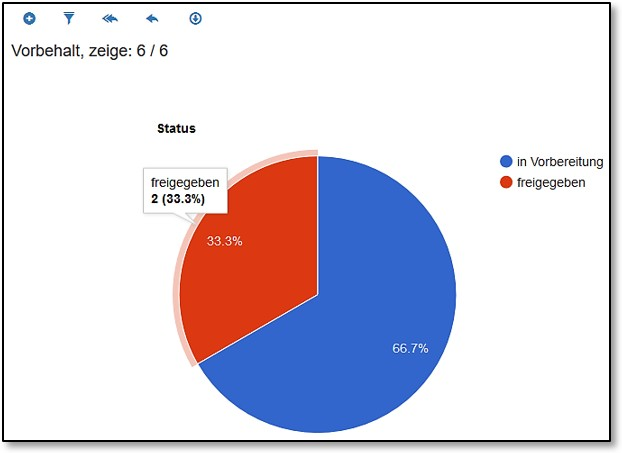
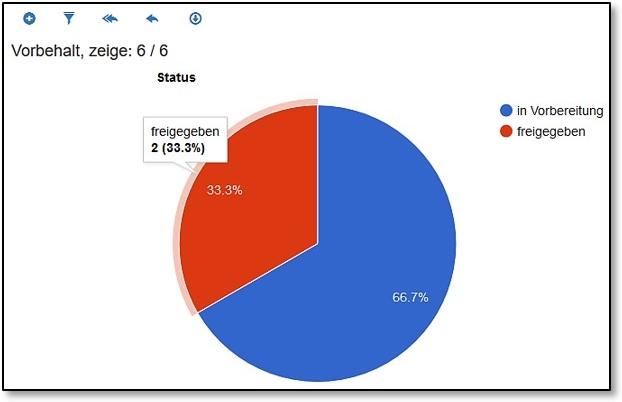
[german] SpezAnleitung
Anpassungen Spez Anleitung RBS ReproDruck

diff --git a/german/chapters/06_Anf-Maengelmanagement/06_Anf-Maengelmanagement.tex b/german/chapters/06_Anf-Maengelmanagement/06_Anf-Maengelmanagement.tex
@@ -121,13 +121,16 @@ Die Prozesse und Abläufe werden nachfolgend anhand der Status beschrieben, welc
 
 \vspace{\baselineskip}
 
+\begin{wrapfigure}[5]{r}{7cm}   % [x] Wie manche Zeile soll sich um die Grafik "brechen"
+  \vspace{-25pt}      % Grundwert war 20; mit 30 schön oben beim Text ausgerichtet
+  \begin{center}
+    \includegraphics[width=1\linewidth]{../chapters/06_Anf-Maengelmanagement/pictures/amm_grafStatus.jpg}
+  \end{center}
+  \vspace{-20pt}
+  % \caption{Das Anforderungs- und Mängelmanagement verwenden}
+  \vspace{-10pt}
+\end{wrapfigure}
 Eine Besonderheit des Anforderungs- und Mängelmanagements ist die grafische Weiterschaltung des Statussystems. Mit farbigen Buttons wird dem Benutzer immer der nächste Schritt oder die Rückgabe an vorhergehende Stelle angezeigt. Mit wenigen Klicks wird die Anforderung durch den Prozess geführt.
-
-\begin{figure}[H]
-\center{\includegraphics[width=.45\linewidth]{../chapters/06_Anf-Maengelmanagement/pictures/amm_grafStatus.jpg}}
-% \caption{Anforderung erstellen oder bearbeiten}
-% \label{fig:speciation}
-\end{figure}
 
 \subsection{Anforderungen erstellen und bearbeiten}
 \label{bkm:Ref2018071810}
@@ -144,7 +147,7 @@ Mit Klick auf das Plussymbol \includegraphics[height=12pt]{/Icons/Plussymbol.jpg
 
 \subsubsection{Bestehende Anforderung bearbeiten}
 
-Eine bestehende Anforderung wird wie folgt bearbeitet: In der Anforderungsübersicht die gewünschte Anforderung suchen und mit Klick auf die 'ID'-Nummer \col{(2)} öffnen sich weitere Optionen. Wählen Sie das Bearbeiten-Symbol (\includegraphics[height=12pt]{/Icons/bearbeiten.jpg}) \col{(3)}. Nun erscheinen die bisherigen Angaben in einer Maske. Die Maske zum Bearbeiten von Anforderungen beinhaltet einige Pflichtfelder, welche mit einem Stern (*) markiert sind. Diese müssen zwingend ausgefüllt oder ausgewählt werden, falls dies beim Erstellen noch nicht erfolgt ist. Für gewisse Felder ist eine Mehrfachauswahl möglich. Nach dem Erfassen der Anforderung müssen die Änderungen übernommen werden, damit sie in der Datenbank gespeichert werden. Die entsprechende blaue Schaltfläche 'Übernehmen' befindet sich unten in der Eingabemaske oder alternativ oben in der Mitte der Browserseite. Wollen Sie nach dem Speichern gleich zur Übersicht zurückkehren, klicken Sie auf \includegraphics[height=12pt]{/Icons/ueb_schliessen.png} oben in der Mitte des Bildschirms. \\
+Eine bestehende Anforderung wird wie folgt bearbeitet: In der Anforderungsübersicht die gewünschte Anforderung suchen und mit Klick auf die 'ID'-Nummer \col{(2)} öffnen sich weitere Optionen. Wählen Sie das Bearbeiten-Symbol (\includegraphics[height=12pt]{/Icons/bearbeiten.jpg}) \col{(3)}. Nun erscheinen die bisherigen Angaben in einer Maske. Die Maske zum Bearbeiten von Anforderungen beinhaltet einige Pflichtfelder, welche mit einem Stern (*) markiert sind. Diese müssen zwingend ausgefüllt oder ausgewählt werden, falls dies beim Erstellen noch nicht erfolgt ist. Für gewisse Felder ist eine Mehrfachauswahl möglich. Nach dem Erfassen der Anforderung müssen die Änderungen übernommen werden, damit sie in der Datenbank gespeichert werden. Die entsprechende blaue Schaltfläche 'Übernehmen' befindet sich unten in der Eingabemaske oder alternativ oben in der Mitte der Browserseite. Wollen Sie nach dem Speichern gleich zur Übersicht zurückkehren, klicken Sie auf \includegraphics[height=12pt]{/Icons/ueb_schliessen.png} oben in der Mitte des Bildschirms.
 
 \vspace{\baselineskip}
 
@@ -155,18 +158,19 @@ Eine bestehende Anforderung wird wie folgt bearbeitet: In der Anforderungsübers
 
 \textbf{Bestehende Anforderung kopieren}
 
-- Wenn Status -Anforderung bearbeiten-
-
-
-% bishierherf
+Eine bestehende Anforderung kann unabhängig ihres Status kopiert werden. Dazu wird die zu kopierende Anforderung mit der Checkbox selektiert (\includegraphics[height=12pt]{/Icons/checkbox_markiert.jpg}). Klicken Sie danach oben in der Bildmitte auf das Kopiersymbol (\includegraphics[height=12pt]{/Icons/A_Kopieren.jpg}). Nun wird die Eingabemaske der Anforderung geöffnet. Sämtliche Felder sind bereits vorausgefüllt. Der Status der neuen Anforderung wird auf 'Anforderung bearbeiten' gesetzt.
 
 \vspace{\baselineskip}
 
+\textbf{Hinweis:} Eine Mehrfachauswahl für die Kopierfunktion ist nicht möglich.
 
+% bishierher
+
+\vspace{\baselineskip}
 
 \textbf{Mehrere Anforderungen bearbeiten}
 
-Um mehrere Anforderungen zu überarbeiten, können diese mit Häkchen (\includegraphics[height=12pt]{/Icons/checkbox_markiert.jpg}) ausgewählt werden. Danach ist es möglich mit der Schaltfläche 'Serienbearbeitung' (\includegraphics[height=12pt]{/Icons/A_Serienbearbeitung.jpg}) in der Menüleiste die einzelnen Anforderungen nacheinander zu bearbeiten und jeweils mit dem Button \includegraphics[height=12pt]{/Icons/speichern_weiter.jpg} \col{(2)} zur nächsten Anforderung zu springen ohne diese erneut auswählen zu müssen. Mit dem \includegraphics[height=12pt]{/Icons/Abbrechen_r.jpg}-Symbol \col{(1)} können Sie die Maske ohne die Daten zu speichern wieder verlassen. \\
+Um mehrere Anforderungen zu überarbeiten, können diese mit Häkchen (\includegraphics[height=12pt]{/Icons/checkbox_markiert.jpg}) ausgewählt werden. Danach ist es möglich mit der Schaltfläche 'Serienbearbeitung' (\includegraphics[height=12pt]{/Icons/A_Serienbearbeitung.jpg}) in der Menüleiste die einzelnen Anforderungen nacheinander zu bearbeiten und jeweils mit dem Button \includegraphics[height=12pt]{/Icons/speichern_weiter.jpg} \col{(2)} zur nächsten Anforderung zu springen ohne diese erneut auswählen zu müssen. Mit dem \includegraphics[height=12pt]{/Icons/Abbrechen_r.jpg}-Symbol \col{(1)} können Sie die Maske ohne die Daten zu speichern wieder verlassen.
 
 \begin{figure}[H]
 \center{\includegraphics[width=0.5\linewidth]{../chapters/06_Anf-Maengelmanagement/pictures/amm_mAnfBearbeiten.jpg}}
@@ -177,19 +181,35 @@ Um mehrere Anforderungen zu überarbeiten, können diese mit Häkchen (\includeg
 Nach dem Erstellen und während dem Bearbeiten kann jeder Anforderung ein Quelldokument angehängt werden. Dieses Dokument muss vorher in der Dokumentenablage erfasst worden sein (Siehe Kapitel \ref{bkm:Ref442863508}). 
 
 \subsubsection{Anforderungen gruppieren}
+\label{bkm:Ref2018121101}
 
-Der TPL Validierung hat die Möglichkeit für mehrere Anforderungen, welche z.B. thematisch oder organisatorisch zusammengehören, eine neue übergeordnete Anforderung zu erstellen. Diese Funktion steht nur für Anforderungen zur Verfügung, welche sich aktuell im Status 'Erfassung abgeschlossen' befinden. Sowohl die existierenden (Unter-)Anforderungen wie auch die neu erstellte übergeordnete Anforderung durchlaufen anschliessend den normalen Lebenszyklus gemäss Statuskonfiguration. Bevor die übergeordnete Anforderung in den abschliessenden Status 'Validierung abgeschlossen' verschoben werden kann, wird automatisch geprüft, ob die Validierung aller untergeordneten Anforderungen bereits abgeschlossen ist. Andernfalls erscheint eine Warnung. \\
+Der TPL Validierung hat die Möglichkeit für mehrere Anforderungen, welche z.B. thematisch oder organisatorisch zusammengehören, eine neue übergeordnete Anforderung zu erstellen. Diese Funktion steht nur für Anforderungen zur Verfügung, welche sich aktuell im Status 'Erfassung abgeschlossen' befinden. Sowohl die existierenden (Unter-)Anforderungen wie auch die neu erstellte übergeordnete Anforderung durchlaufen anschliessend den normalen Lebenszyklus gemäss Statuskonfiguration. Bevor die übergeordnete Anforderung in den abschliessenden Status 'Validierung abgeschlossen' verschoben werden kann, wird automatisch geprüft, ob die Validierung aller untergeordneten Anforderungen bereits abgeschlossen ist. Andernfalls erscheint eine Warnung:
+
+\begin{figure}[H]
+\center{\includegraphics[width=0.75\linewidth]{../chapters/06_Anf-Maengelmanagement/pictures/amm_Warnung.jpg}}
+\caption{Warnung: untergeordnete Anforderungen}
+% \label{fig:speciation}
+\end{figure}
 
 \textbf{Vorgehen:}
 Mehrere bestehende Anforderungen können in der Anforderungsübersicht ausgewählt werden (mittels Checkbox \includegraphics[height=12pt]{/Icons/checkbox_markiert.jpg}). Durch Klicken der Schaltfläche 'Gruppieren' \includegraphics[height=12pt]{/Icons/A_Gruppieren.jpg} wird die Eingabemaske zur Erstellung einer neuen Anforderung geöffnet, wobei die zuvor gewählten Anforderungen als untergeordnete Anforderungen ('Kinder') vorausgewählt werden. Ebenfalls werden Mehrfachauswahlfelder bereits ausgefüllt (Summe aller Auswahlen der 'Kinder') und ggf. Einfachauswahlfelder ausgefüllt (nur falls Auswahl bei den 'Kindern' identisch ist).
-Nach erfolgreichem Gruppieren können die hierarchischen Verknüpfungen der Anforderungen in einem Baum dargestellt werden. Nach Auswahl einer Anforderung erfolgt dies über die Baumschaltfläche (\includegraphics[height=12pt]{/Icons/A_Anforderungsbaum.jpg}) in der Titelleiste (Pro Markierung ( \includegraphics[height=12pt]{/Icons/checkbox_markiert.jpg}) erfolgt eine Darstellung).
+Nach erfolgreichem Gruppieren können die hierarchischen Verknüpfungen der Anforderungen in einem Baum dargestellt werden. Nach Auswahl einer Anforderung erfolgt dies über die Baumschaltfläche (\includegraphics[height=12pt]{/Icons/A_Anforderungsbaum.jpg}) in der Titelleiste (Pro Markierung (\includegraphics[height=12pt]{/Icons/checkbox_markiert.jpg}) erfolgt eine Darstellung).
+
+\begin{figure}[H]
+\center{\includegraphics[width=1\linewidth]{../chapters/06_Anf-Maengelmanagement/pictures/amm_AnfBaum1.jpg}}
+\caption{Zwei Anforderungsbäume}
+% \label{fig:speciation}
+\end{figure}
 
 \subsubsection{Anforderungen splitten}
 
-Die Anforderungsautoren haben die Möglichkeit, einzelne Anforderungen in mehrere An-forderungen aufzuteilen. Dabei wird bei jedem Splitting-Vorgang eine neue Anforderung erfasst, die der bereits existierenden Anforderung untergeordnet und standardmässig mit demselben Inhalt vorausgefüllt ist. Analog zum beschriebenen Verhalten beim Gruppieren von Anforderungen durchlaufen anschliessend alle existierenden und neuen Anforderungen den normalen Lebenszyklus. Für die übergeordneten Anforderungen wird ebenfalls (unabhängig davon, ob sie durch Gruppierung oder Splitting entstanden sind) vor dem Abschluss geprüft, ob alle untergeordneten Anforderungen abschliessend validiert sind. \\
+Die Anforderungsautoren haben die Möglichkeit, einzelne Anforderungen in mehrere An-forderungen aufzuteilen. Dabei wird bei jedem Splitting-Vorgang eine neue Anforderung erfasst, die der bereits existierenden Anforderung untergeordnet und standardmässig mit demselben Inhalt vorausgefüllt ist. Analog zum beschriebenen Verhalten beim Gruppieren von Anforderungen durchlaufen anschliessend alle existierenden und neuen Anforderungen den normalen Lebenszyklus. Für die übergeordneten Anforderungen wird ebenfalls (unabhängig davon, ob sie durch Gruppierung oder Splitting entstanden sind) vor dem Abschluss geprüft, ob alle untergeordneten Anforderungen abschliessend validiert sind (Siehe oben in Kapitel \ref{bkm:Ref2018121101}). \\
 
 \textbf{Vorgehen:}\\
-\textbf{Hinweis:} Das Splitten ist nur für Anforderungen im Status 'Anforderung bearbeiten' möglich.\\
+\textbf{Hinweis:} Das Splitten ist nur für Anforderungen im Status 'Anforderung bearbeiten' möglich.
+
+\vspace{\baselineskip}
+
 Durch Auswahl einer bestehenden Anforderung (mittels Checkbox \includegraphics[height=12pt]{/Icons/checkbox_markiert.jpg}) und Klicken der Schaltfläche 'Splitten'  (\includegraphics[height=12pt]{/Icons/A_Splitten.jpg}) wird die Eingabemaske zur Erstellung einer neuen Anforderung geöffnet, wobei die Inhalte der zuvor gewählten Anforderung eingefüllt werden sowie die zuvor gewählte Anforderung als übergeordnete Anforderung ('Elternteil') gesetzt wird. Nach dem Speichern der neuen Unteranforderung besteht die Möglichkeit, weitere 'Kind'-Anforderungen basierend auf demselben 'Elternteil' zu erfassen.
 Nach erfolgreichem Splitten können die hierarchischen Verknüpfungen der Anforderungen in einem Baum dargestellt werden. Nach Auswahl einer Anforderung (mittels Checkbox \includegraphics[height=12pt]{/Icons/checkbox_markiert.jpg}) erfolgt dies über die Baumschaltfläche in der Titelleiste (\includegraphics[height=12pt]{/Icons/A_Anforderungsbaum.jpg}).\\
 

diff --git a/german/y_SpezDokus/chapters/DocRepro.tex b/german/y_SpezDokus/chapters/DocRepro.tex
@@ -15,16 +15,16 @@ Suchen Sie mit den Filterfeldern und der Volltextsuche \col{(1)} nach den gewün
 Sobald Sie ein Dokument ausgewählt und damit in den Warenkorb gelegt haben, werden Ihnen oben im Browserfenster die möglichen Optionen angezeigt:
 
 \begin{figure}[H]
-\center{\includegraphics[width=1\linewidth]{../chapters/11_Dokumentenablage/pictures/docrepro_wkorb_wOptionen.jpg}}
+\center{\includegraphics[width=1\linewidth]{../chapters/11_Dokumentenablage/pictures/dkorb_wOptionen.jpg}}
 \caption{Optionen}
 % \label{fig:speciation}
 \end{figure}
 
-\textbf{Hinweis:} Die Anzahl an Optionen kann je nach Auswahl variieren. Wurde nur ein Dokument / Plan ausgewählt haben Sie mehr Optionen. Wurde mit einem Dokument auch ein Link ausgewählt, können Sie nur wenige Optionen anwählen.
+\textbf{Hinweis:} Die Anzahl an Optionen kann je nach Auswahl variieren. Wurde nur ein Dokument / Plan ausgewählt, haben Sie mehr Optionen. Wurde mit einem Dokument auch ein Link ausgewählt, können Sie nur wenige Optionen anwählen.
 
 \begin{wrapfigure}[11]{l}{2.8cm}
 \vspace{-15pt}
-\includegraphics[height=70mm]{../chapters/11_Dokumentenablage/pictures/11-dkorb_Auswahl.jpg}
+\includegraphics[height=70mm]{../y_SpezDokus/chapters/11_Dokumentenablage/pictures/11-dkorb_Auswahl.jpg}
 % \caption{Status ändern}
 \end{wrapfigure}
 Klicken Sie auf den Dokumentenkorb \includegraphics[height=12pt]{/Icons/dk_korb_b.jpg}, um weitere Optionen rund um die Dokumentenauswahl zu sehen. Die angezeigten Optionen sind abhängig von der Anzahl und der Art der ausgewählten Dokumenten oder Links:

diff --git a/german/y_SpezDokus/SpezDok_bu.tex b/german/y_SpezDokus/SpezDok_bu.tex
@@ -61,7 +61,7 @@
 
 \begin{figure}[t] % Example image
 \flushright  % rechtsbuendig
-\includegraphics[width=0.2\linewidth]{0_EmBeLogo}
+\includegraphics[width=0.2\linewidth]{1_RBSLogo} \quad \includegraphics[width=0.2\linewidth]{0_EmBeLogo}
 \end{figure}
 
 \vspace*{2cm}
@@ -73,7 +73,7 @@
 \HRule \\[1.5cm]
 
 \textsf{\Large Spezialanleitung}\\[0.5cm] % Major heading such as course name
-\textsf{\large Version 2.12 / 05.12.2018}\\[0.5cm] % Minor heading such as course title
+\textsf{\large Version 2.12 / 13.12.2018}\\[0.5cm] % Minor heading such as course title
 
 \vspace*{3cm}
 
@@ -89,7 +89,7 @@
 \begin{tabular}{lp{12cm}}
 Auftragsnummer & BE.N.\\
 Auftraggeber & .\\
-Datum & 05.12.2018\\
+Datum & 13.12.2018\\
 Version & 2.12\\
 Autor & Benjamin Nyffenegger\\
 Freigabe & Markus Schafroth\\
